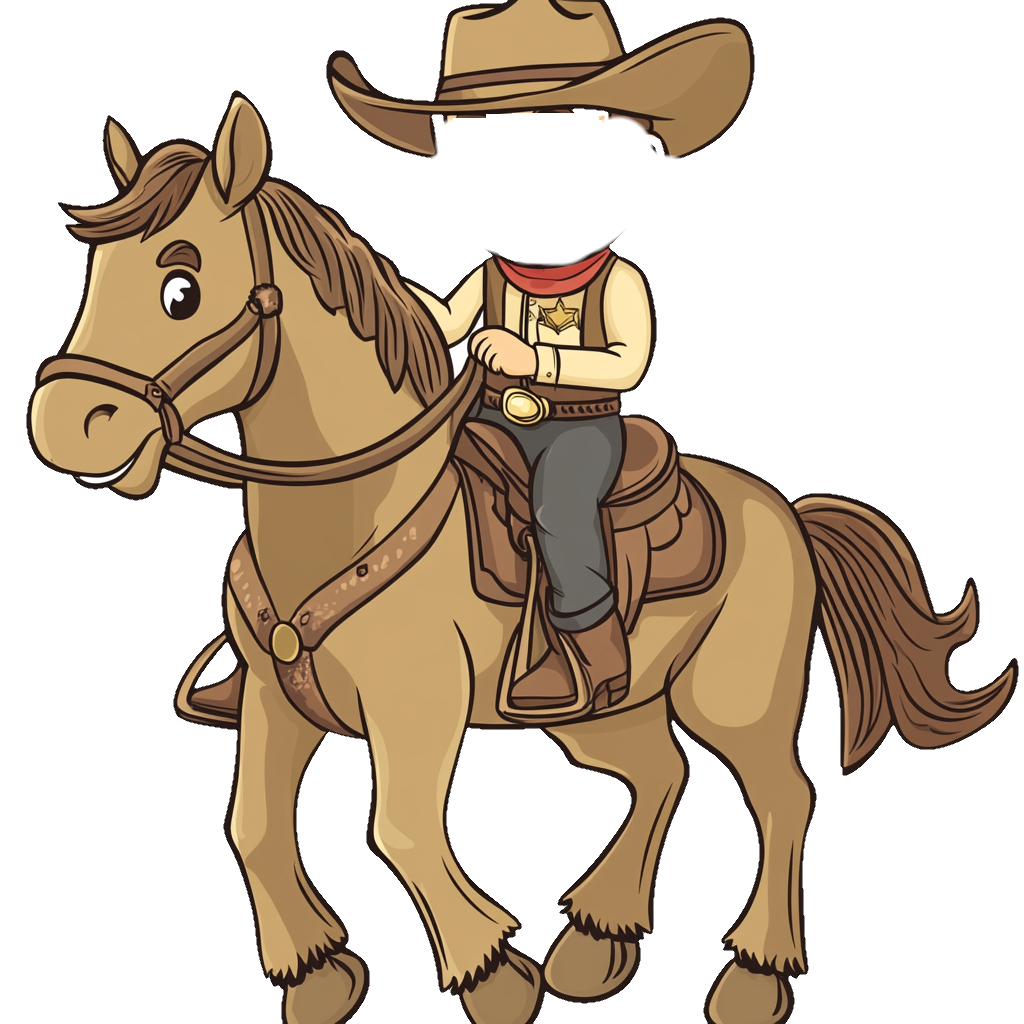
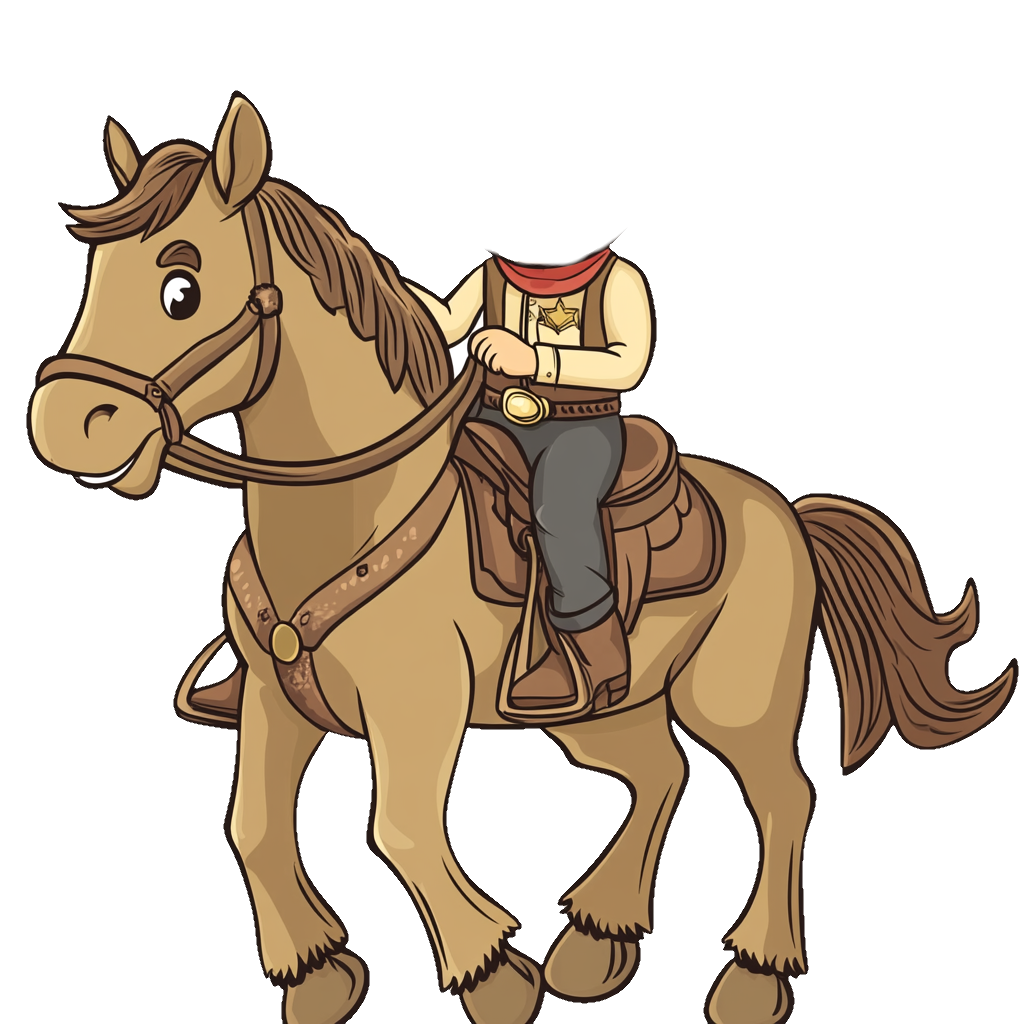
fix

Changed region(s): [[0.3125, 0.0, 0.75, 0.1562]]

diff --git a/src/index.css b/src/index.css
@@ -3,7 +3,7 @@
   line-height: 1.5;
   font-weight: 400;
   color: rgba(255, 255, 255, 0.87);
-  background-color: #2a3257;
+  background-color: #4d963d;
 
   font-synthesis: none;
   text-rendering: optimizeLegibility;
@@ -32,6 +32,7 @@
 #root {
   max-width: 1280px;
   height: 100vh;
+  overflow-y: hidden;
 }
 
 a {
@@ -105,9 +106,13 @@ button:focus-visible {
 .cowboy-anny {
   left: 0%;
 
+  img.main {
+    transform: scale(0.6);
+  }
+
   img.head {
-    width: 42px;
-    height: 42px;
+    width: 52px;
+    height: 52px;
     top: 4px;
     left: 40px;
     transform: rotate(-18deg);
@@ -115,25 +120,49 @@ button:focus-visible {
 }
 
 .cowboy-mom {
-  left: 25%;
+  left: 20%;
+
+  img.main {
+    transform: scale(0.6);
+  }
 
   img.head {
-    width: 48px;
-    height: 48px;
-    top: 6px;
-    left: 42px;
+    width: 68px;
+    height: 68px;
+    top: -18px;
+    left: 26px;
   }
 }
 
 .cowboy-chris {
-  left: 50%;
+  left: 40%;
+
+  img.main {
+    transform: scale(0.6);
+  }
 
   img.head {
-    width: var(--unit5);
-    height: var(--unit5);
-    top: 4px;
-    left: 52px;
+    width: 68px;
+    height: 68px;
+    top: -24px;
+    left: 32px;
     transform: rotate(28deg);
+  }
+}
+
+.cowboy-tanya {
+  left: 60%;
+
+  img.main {
+    transform: scale(0.6);
+  }
+
+  img.head {
+    width: 68px;
+    height: 68px;
+    top: -14px;
+    left: 32px;
+    transform: rotate(8deg);
   }
 }
 
@@ -180,7 +209,7 @@ button:focus-visible {
   width: var(--unit10);
   height: var(--unit10);
 
-  bottom: -3%;
+  bottom: 0;
   left: 50%;
   transform: translate(-50%, 0);
 

diff --git a/src/App.tsx b/src/App.tsx
@@ -1,6 +1,7 @@
 import CowboyAnny from "./components/CowboyAnny";
 import CowboyChris from "./components/CowboyChris";
 import CowboyMom from "./components/CowboyMom";
+import CowboyTanya from "./components/CowboyTanya";
 
 const startDate = new Date("2025-03-01");
 const endDate = new Date("2025-08-31");
@@ -24,6 +25,11 @@ const data = {
     target: 74_000,
     current: 76_000,
   },
+  tanya: {
+    start: 80_000,
+    target: 74_000,
+    current: 76_000,
+  },
 };
 
 const anny = data.anny;
@@ -36,6 +42,11 @@ const annyValue = Math.floor(
 const vt = data.vt;
 const momValue = Math.floor(
   ((vt.current - vt.start) / (vt.target - vt.start)) * 100
+);
+
+const tan = data.tanya;
+const tanyaValue = Math.floor(
+  ((tan.current - tan.start) / (tan.target - tan.start)) * 100
 );
 
 function App() {
@@ -65,6 +76,7 @@ function App() {
         <CowboyAnny value={annyValue} />
         <CowboyMom value={momValue} />
         <CowboyChris value={50} />
+        <CowboyTanya value={tanyaValue} />
       </div>
 
       <div className="eiffel">

diff --git a/src/components/CowboyTanya.tsx b/src/components/CowboyTanya.tsx
@@ -1,0 +1,20 @@
+import Cowboy from "./Cowboy";
+
+type Props = {
+  // in percent from 0 to 100
+  value: number;
+};
+
+const CowboyTanya = ({ value }: Props) => {
+  console.log(value);
+  return (
+    <Cowboy
+      className="cowboy-tanya"
+      cowboyPath="/c4.png"
+      facePath="/tanya.png"
+      value={value}
+    />
+  );
+};
+
+export default CowboyTanya;
